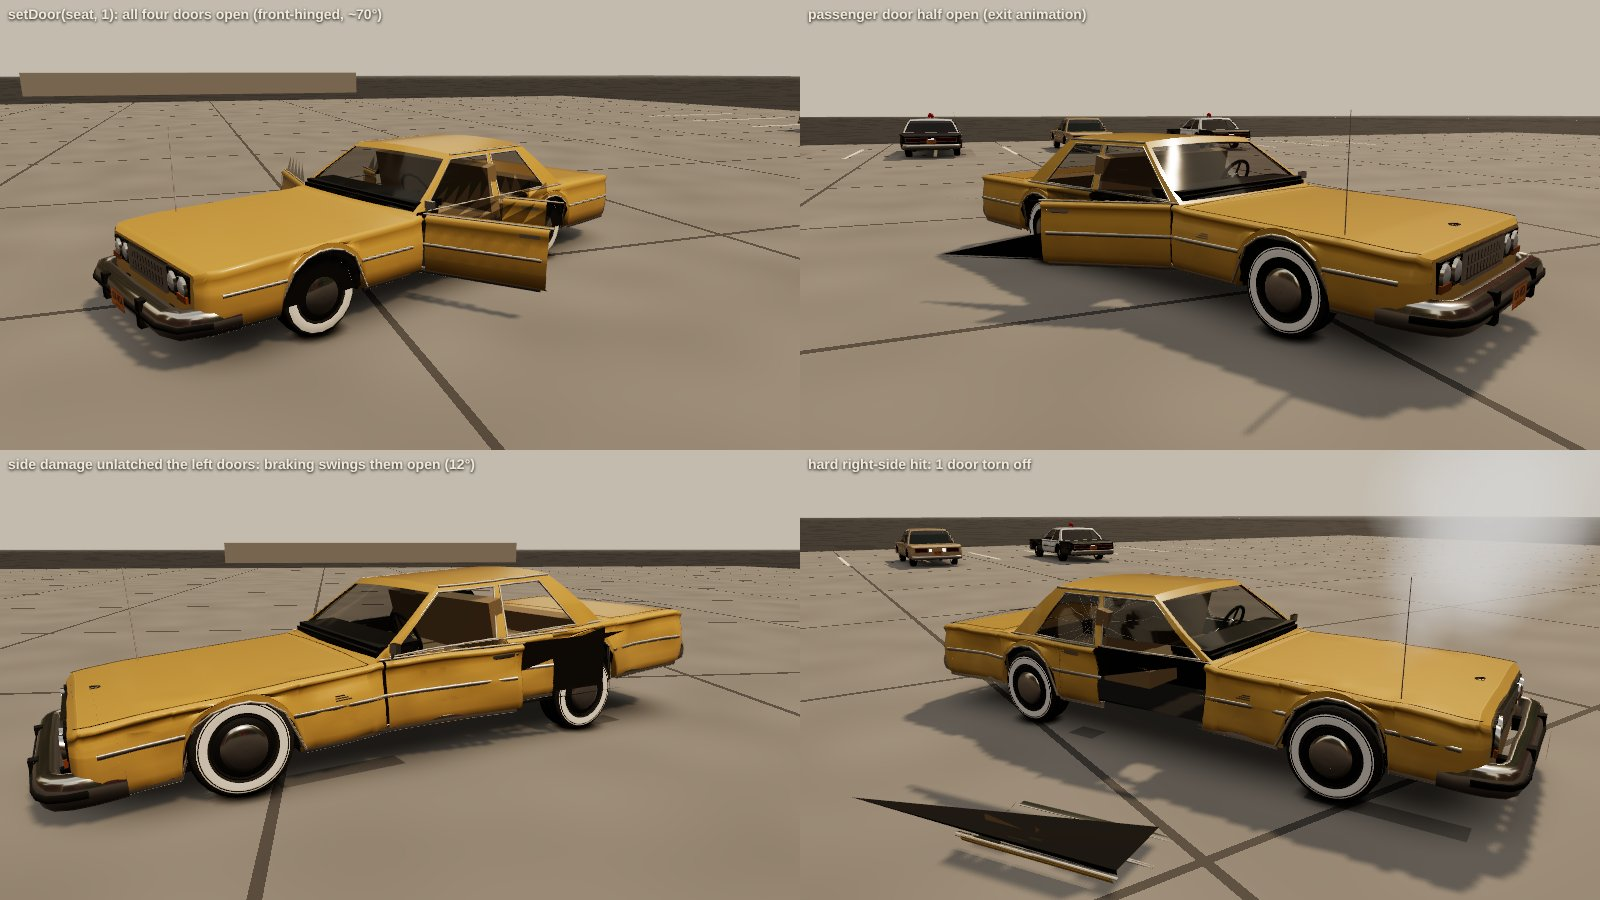
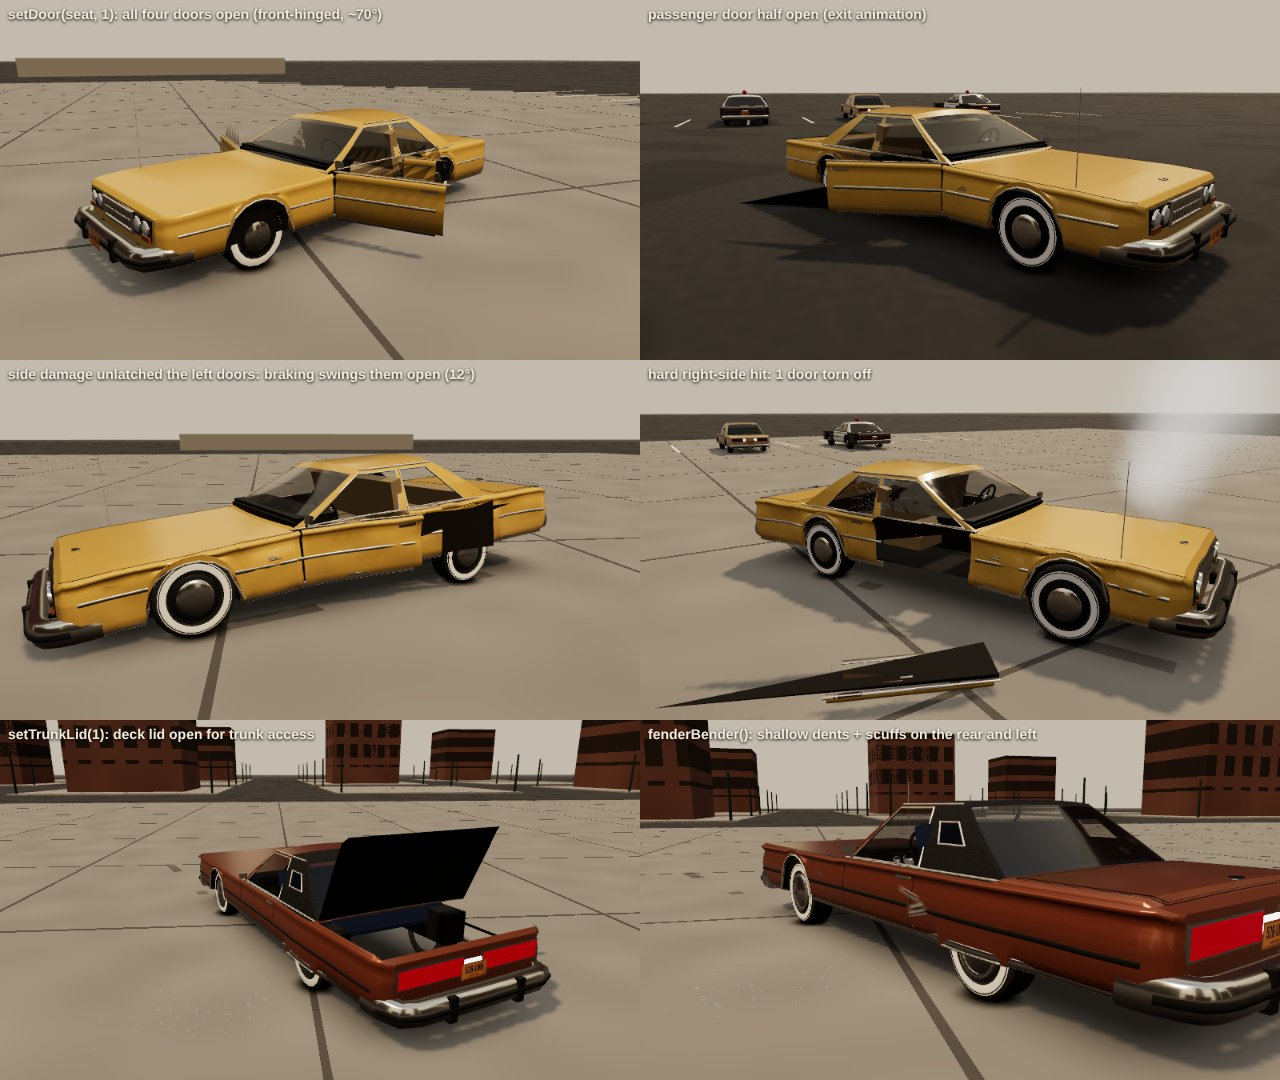
Vehicles: trunk lid (cut from the body, opens for trunk access, springs and tears off on rear damage); fenderBender() dents + scuff decals; clean seam stations (doors too)
Claude-Session: https://claude.ai/code/session_01H4ZSJ51q9zJhE3T3n4Hw3M

diff --git a/src/vehicles/Vehicle.ts b/src/vehicles/Vehicle.ts
@@ -72,6 +72,24 @@ const OWNER = new Map<number, Vehicle>();
 export function vehicleOfCollider(c: RAPIER.Collider | null | undefined): Vehicle | null { return c ? OWNER.get(c.handle) ?? null : null; }
 
 const MAX_HOLES = 48;
+const MAX_SCUFFS = 24;
+let scuffMat: THREE.MeshStandardNodeMaterial | null = null;
+/** Scuffs: grey-white scratch streaks and a dark rubber smear, drawn once on a canvas (shared). */
+function scuffMaterial() {
+  if (scuffMat) return scuffMat;
+  const c = document.createElement('canvas'); c.width = 256; c.height = 96;
+  const g = c.getContext('2d')!;
+  g.clearRect(0, 0, 256, 96);
+  for (let i = 0; i < 26; i++) {
+    const y = 20 + Math.random() * 56, x0 = Math.random() * 60, x1 = 180 + Math.random() * 76;
+    g.strokeStyle = i % 5 === 0 ? 'rgba(25,22,20,0.55)' : `rgba(210,206,198,${0.25 + Math.random() * 0.45})`;
+    g.lineWidth = i % 5 === 0 ? 5 + Math.random() * 6 : 0.8 + Math.random() * 1.8;
+    g.beginPath(); g.moveTo(x0, y); g.lineTo(x1, y + (Math.random() - 0.5) * 10); g.stroke();
+  }
+  const t = new THREE.CanvasTexture(c); t.colorSpace = THREE.SRGBColorSpace;
+  scuffMat = new THREE.MeshStandardNodeMaterial({ map: t, transparent: true, depthWrite: false, roughness: 0.8, polygonOffset: true, polygonOffsetFactor: -3, polygonOffsetUnits: -3 });
+  return scuffMat;
+}
 const smoothstep01 = (t: number) => { const x = Math.min(1, Math.max(0, t)); return x * x * (3 - 2 * x); };
 
 /** How many cars besides the player get the hero mesh, per quality (phones: the player only). */
@@ -217,6 +235,21 @@ export class Vehicle implements Lightable {
       holder.add(mesh); lod0.add(holder);
       this.parts[name] = { mesh, holder, body: null, sag: 0 };
     }
+    if (g0.trunkLid) {
+      const tl = g0.trunkLid;
+      const pivot = new THREE.Group();
+      pivot.position.set(...tl.hinge);
+      const mesh = new THREE.Mesh(tl.geo, this.mats.array);
+      mesh.position.set(-tl.hinge[0], -tl.hinge[1], -tl.hinge[2]);
+      mesh.castShadow = true; mesh.updateMorphTargets();
+      pivot.add(mesh); lod0.add(pivot);
+      this.parts.trunk = { mesh, holder: pivot, body: null, sag: 0 };
+      this.lid = { pivot, angle: 0, vel: 0, target: 0 };
+    }
+    // scuff marks (fender-benders): instanced canvas streaks in body space
+    this.scuffs = new THREE.InstancedMesh(new THREE.PlaneGeometry(0.42, 0.14), scuffMaterial(), MAX_SCUFFS);
+    this.scuffs.count = 0; this.scuffs.frustumCulled = false;
+    lod0.add(this.scuffs);
     if (g0.steering) {
       const st = g0.steering;
       this.steerPivot = new THREE.Group();
@@ -742,7 +775,7 @@ export class Vehicle implements Lightable {
     ZONES.forEach((z, i) => { infl[i] = this.zones[z]; });
     const hood = this.hoodPivot?.children[0] as THREE.Mesh | undefined;
     if (hood?.morphTargetInfluences) ZONES.forEach((z, i) => { hood.morphTargetInfluences![i] = this.zones[z]; });
-    for (const name of ['bumperF', 'bumperR', ...this.doors.map((d) => d.name)]) { const m = this.parts[name]?.mesh; if (m?.morphTargetInfluences) ZONES.forEach((z, i) => { m.morphTargetInfluences![i] = this.zones[z]; }); }
+    for (const name of ['bumperF', 'bumperR', 'trunk', ...this.doors.map((d) => d.name)]) { const m = this.parts[name]?.mesh; if (m?.morphTargetInfluences) ZONES.forEach((z, i) => { m.morphTargetInfluences![i] = this.zones[z]; }); }
     this.physics.wheels.forEach((w, i) => { w.flat = this.components.tyresFlat[i]; });
     const prev = this.stage;
     if (this.stage !== 'destroyed') {
@@ -1044,6 +1077,7 @@ export class Vehicle implements Lightable {
     for (const name of ['bumperF', 'bumperR'] as const) { const p = this.parts[name], ng = g[name]; if (p && ng) { p.mesh.geometry = ng; p.mesh.updateMorphTargets(); } }
     this.doors.forEach((d, i) => { const p = this.parts[d.name], ng = g.doors[i]?.geo; if (p && ng) { p.mesh.geometry = ng; p.mesh.updateMorphTargets(); } });
     if (this.steerMesh && g.steering) this.steerMesh.geometry = g.steering.geo;
+    { const p = this.parts.trunk; if (p && g.trunkLid) { p.mesh.geometry = g.trunkLid.geo; p.mesh.updateMorphTargets(); } }
     this.wheelObjs.forEach((o, i) => {
       const w = this.asset.lod0.wheels[i];
       const lvl = o.lod.levels[0].object;
@@ -1062,6 +1096,9 @@ export class Vehicle implements Lightable {
   /** Doors (LOD0 passenger cars): open amount 0..1 (1 = ~70°), animated toward `target`. */
   private doors: { name: string; side: 1 | -1; z0: number; z1: number; pivot: THREE.Group; angle: number; vel: number; target: number }[] = [];
   private prevVel = new THREE.Vector3();
+  private lid: { pivot: THREE.Group; angle: number; vel: number; target: number } | null = null;
+  private scuffs!: THREE.InstancedMesh;
+  private scuffN = 0;
   private steerPivot: THREE.Group | null = null;
   private steerMesh: THREE.Mesh | null = null;
   private steerAxis = new THREE.Vector3(0, 0, 1);
@@ -1072,7 +1109,7 @@ export class Vehicle implements Lightable {
    * Knock a part off: it becomes a physics body (debris) that keeps the dents and paint it had.
    * `push` (world, m/s) adds to the car's velocity. Returns false if already off or not present.
    */
-  detachPart(name: 'hood' | 'bumperF' | 'bumperR' | `door${number}`, push?: { x: number; y: number; z: number }, source: string | null = null): boolean {
+  detachPart(name: 'hood' | 'trunk' | 'bumperF' | 'bumperR' | `door${number}`, push?: { x: number; y: number; z: number }, source: string | null = null): boolean {
     const part = this.parts[name];
     const list = (this.components.detached ??= []);
     if (!part || list.includes(name)) return false;
@@ -1129,6 +1166,45 @@ export class Vehicle implements Lightable {
   }
   /** Current opening of a seat's door (0..1); null when there is none. */
   doorOpen(seat: SeatId): number | null { const d = this.doorFor(seat); return d ? d.angle : null; }
+  /** Deck lid: open toward `open` (0..1, ~65°) for trunk access. False on cars without one (wagons, trucks). */
+  setTrunkLid(open: number): boolean {
+    if (!this.lid || this.components.detached?.includes('trunk')) return false;
+    this.lid.target = Math.max(0, Math.min(1, open));
+    return true;
+  }
+  trunkLidOpen(): number | null { return this.lid && !this.components.detached?.includes('trunk') ? this.lid.angle : null; }
+  /**
+   * Low-speed knock (sim fenderBender): a shallow dent and scuff marks on the struck panel.
+   * `where` = the zone that took it, or a world point; `other` = the other car's id (for events).
+   */
+  fenderBender(where: Zone | { x: number; y: number; z: number }, other: string | null = null) {
+    const g = this.asset.lod0;
+    this.object.updateMatrixWorld();
+    let lp: THREE.Vector3;
+    if (typeof where === 'string') {
+      const r = () => (Math.random() - 0.5);
+      const zc = (g.minZ + g.maxZ) / 2;
+      lp = where === 'front' ? new THREE.Vector3(r() * g.halfW, 0.45, g.minZ + 0.12)
+        : where === 'rear' ? new THREE.Vector3(r() * g.halfW, 0.5, g.maxZ - 0.12)
+        : new THREE.Vector3((where === 'right' ? 1 : -1) * (g.halfW - 0.03), 0.6, zc + r() * (g.maxZ - g.minZ) * 0.6);
+    } else lp = this.object.worldToLocal(new THREE.Vector3(where.x, where.y, where.z));
+    const zone = typeof where === 'string' ? where : this.zoneOf(where as THREE.Vector3);
+    this.dent(this.object.localToWorld(lp.clone()), 0.012, 0.3);
+    // scuffs: two or three streaks across the panel, facing out of it
+    const n = new THREE.Vector3(zone === 'front' ? 0 : zone === 'rear' ? 0 : zone === 'right' ? 1 : -1, 0, zone === 'front' ? -1 : zone === 'rear' ? 1 : 0);
+    const q = new THREE.Quaternion().setFromUnitVectors(new THREE.Vector3(0, 0, 1), n);
+    for (let k = 0; k < 3; k++) {
+      const i = this.scuffN++ % MAX_SCUFFS;
+      const p = lp.clone().add(new THREE.Vector3((Math.random() - 0.5) * 0.25, (Math.random() - 0.5) * 0.12, (Math.random() - 0.5) * 0.25)).addScaledVector(n, 0.012);
+      const rq = q.clone().multiply(new THREE.Quaternion().setFromAxisAngle(new THREE.Vector3(0, 0, 1), (Math.random() - 0.5) * 0.5));
+      this.scuffs.setMatrixAt(i, new THREE.Matrix4().compose(p, rq, new THREE.Vector3(0.7 + Math.random() * 0.6, 0.7 + Math.random() * 0.5, 1)));
+    }
+    this.scuffs.count = Math.min(MAX_SCUFFS, this.scuffN);
+    this.scuffs.instanceMatrix.needsUpdate = true;
+    this.zones[zone] = Math.min(1, this.zones[zone] + 0.02);
+    this.refreshDamage(true);
+    this.emit('component', { vehicleId: this.id, kind: 'part', detail: `scuff:${zone}${other ? ':' + other : ''}`, source: other } satisfies ComponentEvent);
+  }
   /** Every door shut (e.g. after the engine's enter animation). */
   closeAllDoors() { for (const d of this.doors) d.target = 0; }
   private updateDoors(dt: number) {
@@ -1155,6 +1231,16 @@ export class Vehicle implements Lightable {
         d.vel = 0;
       }
       d.pivot.rotation.y = d.side * d.angle * 1.22;
+    }
+    const lid = this.lid;
+    if (lid && !this.components.detached?.includes('trunk')) {
+      if (this.zones.rear > 0.6) {
+        // latch sprung: the lid bounces on its hinges with the car's pitch and bumps
+        const push = 0.35 - Math.max(0, -acc.z) * 0.05 + acc.y * 0.03;
+        lid.vel += (push - lid.angle) * dt * 18 - lid.vel * dt * 3;
+        lid.angle = Math.max(0, Math.min(1, lid.angle + lid.vel * dt));
+      } else lid.angle += (lid.target - lid.angle) * Math.min(1, dt * 4);
+      lid.pivot.rotation.x = -lid.angle * 1.13;
     }
   }
 
@@ -1190,6 +1276,7 @@ export class Vehicle implements Lightable {
       if (this.zones[zone] > 0.82 || sev > 0.55) this.detachPart(name, { x: fwd.x * 1.5, y: 0.5, z: fwd.z * 1.5 }, source);
     }
     if (zone === 'front' && (this.zones.front > 0.9 || sev > 0.7)) this.detachPart('hood', { x: fwd.x * 0.5, y: 3, z: fwd.z * 0.5 }, source);
+    if (zone === 'rear' && (this.zones.rear > 0.92 || sev > 0.75)) this.detachPart('trunk', { x: fwd.x * 0.5, y: 2.5, z: fwd.z * 0.5 }, source);
     if ((zone === 'left' || zone === 'right') && (this.zones[zone] > 0.88 || sev > 0.6)) {
       const side = zone === 'right' ? 1 : -1;
       const out = _v4.set(side, 0.2, 0).applyQuaternion(this.object.quaternion);
@@ -1204,6 +1291,8 @@ export class Vehicle implements Lightable {
     for (const p of Object.values(this.parts)) if (p) { p.mesh.visible = true; p.sag = 0; if (p.holder !== this.hoodPivot) { p.holder.rotation.set(0, 0, 0); p.holder.position.set(0, 0, 0); } }
     if (this.components.detached) this.components.detached.length = 0;
     for (const d of this.doors) { d.angle = 0; d.vel = 0; d.target = 0; d.pivot.rotation.y = 0; }
+    if (this.lid) { this.lid.angle = 0; this.lid.vel = 0; this.lid.target = 0; this.lid.pivot.rotation.x = 0; }
+    this.scuffN = 0; this.scuffs.count = 0;
   }
 
   private updateLightsAndFx(dt: number) {

diff --git a/src/vehicles/gen/body.ts b/src/vehicles/gen/body.ts
@@ -1,5 +1,5 @@
 import * as THREE from 'three/webgpu';
-import { GeoBuilder, SLOTS, extractRegions, type Slot, type V3, clamp, lerp, pw, smooth } from './builder';
+import { GeoBuilder, SLOTS, extractRegions, withInnerSkin, type Slot, type V3, clamp, lerp, pw, smooth } from './builder';
 import { type ModelSpec, type GlassKind, type CargoSpec, sMid } from './spec';
 
 /** Where decals (canvas textures) go; created by decals.ts. */
@@ -13,6 +13,8 @@ export interface BoxCollider { cx: number; cy: number; cz: number; hx: number; h
 export interface GeneratedModel {
   body: THREE.BufferGeometry;
   hood: THREE.BufferGeometry | null;
+  /** LOD0 notchback cars: the deck lid (hinged at its front edge, opens up). */
+  trunkLid: { geo: THREE.BufferGeometry; hinge: V3; z1: number } | null;
   /** LOD0 passenger cars: the steering wheel rim and spokes (turns about `axis` through `centre`). */
   steering: { geo: THREE.BufferGeometry; centre: V3; axis: V3 } | null;
   /** LOD0 passenger cars: doors cut from the body (front-hinged; swing open, hang, detach). */
@@ -172,7 +174,8 @@ export function generate(m: ModelSpec, o: GenOptions): GeneratedModel {
 
   // ---------------------------------------------------------------- stations
   const st = new Set<number>();
-  if (lod === 0) for (const sd of doorSeams) { st.add(sd); st.add(sd - 0.004); st.add(sd + 0.004); } // doors cut cleanly along their seams
+  if (lod === 0) for (const sd of doorSeams) { st.add(sd); st.add(sd - 0.006); st.add(sd + 0.006); } // doors cut cleanly along their seams
+  if (lod === 0 && PASSENGER.has(m.cls)) for (const sd of [m.gh.sC0 + 0.12, L - 0.1]) { st.add(sd); st.add(sd - 0.006); st.add(sd + 0.006); } // deck lid seams
   const n = Math.max(lod === 0 ? 14 : 7, Math.round(L / (lod === 0 ? 0.42 : 0.85)));
   for (let i = 0; i <= n; i++) st.add(L * i / n);
   for (const a of axles) {
@@ -591,6 +594,20 @@ export function generate(m: ModelSpec, o: GenOptions): GeneratedModel {
       doors.push({ side: r.side, z0: Math.min(r.z0, r.z1), z1: Math.max(r.z0, r.z1), hinge: [r.side * (sideX(r.sFront, (m.sillY + m.beltY) / 2) + 0.01), (m.sillY + m.beltY) / 2, hingeZ], geo });
     });
   }
+  // ---------------------------------------------------------------- deck (trunk) lid: its own part on notchbacks
+  let trunkLid: GeneratedModel['trunkLid'] = null;
+  if (lod === 0 && PASSENGER.has(m.cls) && m.cls !== 'wagon' && !m.cargo) {
+    const deck0 = m.gh.sC0 + 0.12, deck1 = L - 0.1;
+    if (topY((deck0 + deck1) / 2) < m.gh.roofY - 0.3 && deck1 - deck0 > 0.6) {
+      const zA = Z(deck0), zB = Z(deck1);
+      const tl = extractRegions(body, [(cx, cy, cz) => {
+        if (cz < zA + 0.002 || cz > zB - 0.002) return false;
+        const sC = cz - Z(0);
+        return Math.abs(cx) < halfW(sC) * 0.9 && cy > topY(sC) - 0.06;
+      }]);
+      if (tl.parts[0].index && tl.parts[0].index.count >= 3) { body = tl.rest; trunkLid = { geo: withInnerSkin(tl.parts[0], 'under', 0.012, [0, 1, 0]), hinge: [0, topY(deck0), zA], z1: zB }; }
+    }
+  }
   // ---------------------------------------------------------------- steering wheel: its own part so it can turn
   let steering: GeneratedModel['steering'] = null;
   if (lod === 0 && PASSENGER.has(m.cls)) {
@@ -610,11 +627,11 @@ export function generate(m: ModelSpec, o: GenOptions): GeneratedModel {
   let maxZ = Z(L) + rDepth;
   for (const c of m.cargo ?? []) maxZ = Math.max(maxZ, Z(c.s1));
   return {
-    body, hood, doors, steering, bumperF: lod === 0 && bumpFB.pos.length ? bumpFB.build() : null, bumperR: lod === 0 && bumpRB.pos.length ? bumpRB.build() : null, hoodPivot: m.hood ? [0, topY(m.hood[1]), Z(m.hood[1])] : [0, 0, 0],
+    body, hood, doors, steering, trunkLid, bumperF: lod === 0 && bumpFB.pos.length ? bumpFB.build() : null, bumperR: lod === 0 && bumpRB.pos.length ? bumpRB.build() : null, hoodPivot: m.hood ? [0, topY(m.hood[1]), Z(m.hood[1])] : [0, 0, 0],
     wheelR, wheelL, wheels, beacon, decals, colliders,
     lamps: { head, tail }, plates: plateMounts(m, Z, lastCargo),
     minZ: Z(0) - fDepth, maxZ, halfW: m.W / 2, height: Math.max(roofTop, ...(m.cargo ?? []).map((c) => c.y1)),
-    tris: tris(body) + tris(hood) + doors.reduce((a, d) => a + tris(d.geo), 0) + (steering ? tris(steering.geo) : 0) + (tris(wheelR) * (wheels.length + (m.dualRear ? 2 : 0))) + tris(beacon),
+    tris: tris(body) + tris(hood) + doors.reduce((a, d) => a + tris(d.geo), 0) + (steering ? tris(steering.geo) : 0) + (trunkLid ? tris(trunkLid.geo) : 0) + (tris(wheelR) * (wheels.length + (m.dualRear ? 2 : 0))) + tris(beacon),
   };
 }
 

diff --git a/src/vehicles/gen/builder.ts b/src/vehicles/gen/builder.ts
@@ -327,3 +327,33 @@ export function extractRegions(g: THREE.BufferGeometry, tests: ((cx: number, cy:
   };
   return { rest: make(buckets[0]), parts: buckets.slice(1).map(make) };
 }
+
+/** Append the reverse side of every triangle in the given slot (an inner skin, e.g. a lid's underside). */
+export function withInnerSkin(g: THREE.BufferGeometry, slot: Slot, offset = 0.006, dir?: V3): THREE.BufferGeometry {
+  const pos = g.getAttribute('position'), nrm = g.getAttribute('normal'), idx = g.index!;
+  const n = pos.count;
+  const P = new Float32Array(n * 6), N = new Float32Array(n * 6);
+  for (let i = 0; i < n; i++) {
+    for (let c = 0; c < 3; c++) { P[i * 3 + c] = (pos.array as ArrayLike<number>)[i * 3 + c]; N[i * 3 + c] = (nrm.array as ArrayLike<number>)[i * 3 + c]; }
+    const nx = nrm.getX(i), ny = nrm.getY(i), nz = nrm.getZ(i);
+    // offset along a fixed direction when given: vertex normals tilt at creases and would push edges out
+    const ox = dir ? -dir[0] : nx, oy = dir ? -dir[1] : ny, oz = dir ? -dir[2] : nz;
+    P[(n + i) * 3] = pos.getX(i) - ox * offset; P[(n + i) * 3 + 1] = pos.getY(i) - oy * offset; P[(n + i) * 3 + 2] = pos.getZ(i) - oz * offset;
+    if (dir) { N[(n + i) * 3] = -nx; N[(n + i) * 3 + 1] = -ny; N[(n + i) * 3 + 2] = -nz; continue; }
+    P[(n + i) * 3] = pos.getX(i) - nx * offset; P[(n + i) * 3 + 1] = pos.getY(i) - ny * offset; P[(n + i) * 3 + 2] = pos.getZ(i) - nz * offset;
+    N[(n + i) * 3] = -nx; N[(n + i) * 3 + 1] = -ny; N[(n + i) * 3 + 2] = -nz;
+  }
+  const ix: number[] = [];
+  const out = new THREE.BufferGeometry();
+  for (const grp of g.groups) { const start = ix.length; for (let k = grp.start; k < grp.start + grp.count; k++) ix.push(idx.getX(k)); out.addGroup(start, ix.length - start, grp.materialIndex); }
+  const start = ix.length;
+  for (let k = 0; k < idx.count; k += 3) ix.push(n + idx.getX(k), n + idx.getX(k + 2), n + idx.getX(k + 1));
+  out.addGroup(start, ix.length - start, SLOTS.indexOf(slot));
+  out.setAttribute('position', new THREE.BufferAttribute(P, 3));
+  out.setAttribute('normal', new THREE.BufferAttribute(N, 3));
+  const uv = g.getAttribute('uv');
+  if (uv) { const U = new Float32Array(n * 4); U.set(uv.array as ArrayLike<number>, 0); U.set(uv.array as ArrayLike<number>, n * 2); out.setAttribute('uv', new THREE.BufferAttribute(U, 2)); }
+  out.setIndex(ix);
+  out.computeBoundingBox(); out.computeBoundingSphere();
+  return out;
+}

diff --git a/tools/shots/vehicles.ts b/tools/shots/vehicles.ts
@@ -467,8 +467,13 @@ async function main() {
       await camRel(page, [-4.6, 1.8, -2.5], 42, 0.35); ds.push(await snap(page)); dl.push(`side damage unlatched the left doors: braking swings them open (${(r.ajar * 70).toFixed(0)}°)`);
       const r2 = await page.evaluate(() => { const V = window.__VEH; V.setAuto({ throttle: 0, brake: 1, steer: 0, handbrake: true }); V.simulate(1.5); V.player.applyDamage('right', 0.75); V.simulate(2.5); return V.player.detachedParts; });
       await camRel(page, [4.6, 2.0, -3.0], 42, 0.35); ds.push(await snap(page)); dl.push(`hard right-side hit: ${r2.filter((x: string) => x.startsWith('door')).length} door torn off`);
+      // trunk lid for trunk access, and fender-bender scuffs
+      await page.evaluate(() => { const V = window.__VEH; V.setModel('tiverton', 2, { x: 0, z: 30, yaw: 0.4 }); V.setAuto({ throttle: 0, brake: 1, steer: 0, handbrake: true }); V.simulate(0.5); V.player.setTrunkLid(1); V.simulate(1.2); });
+      await camRel(page, [-3.0, 2.3, 5.6], 42, 0.4); ds.push(await snap(page)); dl.push('setTrunkLid(1): deck lid open for trunk access');
+      await page.evaluate(() => { const V = window.__VEH; V.player.setTrunkLid(0); V.simulate(2.5); V.player.fenderBender('rear', 'veh-b'); V.player.fenderBender('left', 'veh-c'); V.simulate(0.5); });
+      await camRel(page, [-3.2, 1.3, 4.2], 36, 0.3); ds.push(await snap(page)); dl.push('fenderBender(): shallow dents + scuffs on the rear and left');
       report.doors = { ajarAfterBraking: r.ajar, detached: r2 };
-      await sheet(page, ds, 2, 800, 450, 'doors.jpg', dl);
+      await sheet(page, ds, 2, 640, 360, 'doors.jpg', dl);
       console.log('doors', report.doors);
     }
 

diff --git a/src/vehicles/assets.ts b/src/vehicles/assets.ts
@@ -50,7 +50,7 @@ export function getAsset(spec: ModelSpec, v: Pick<Variant, 'vinyl' | 'whitewall'
   const lod0 = generate(spec, { lod: 0, ...v });
   addDamageMorphs(lod0.body, lod0, strHash(spec.id) % 97);
   if (lod0.hood) addDamageMorphs(lod0.hood, lod0, strHash(spec.id) % 97);
-  for (const bg of [lod0.bumperF, lod0.bumperR, ...lod0.doors.map((d) => d.geo)]) if (bg) addDamageMorphs(bg, lod0, strHash(spec.id) % 97);
+  for (const bg of [lod0.bumperF, lod0.bumperR, ...lod0.doors.map((d) => d.geo), lod0.trunkLid?.geo ?? null]) if (bg) addDamageMorphs(bg, lod0, strHash(spec.id) % 97);
   const lod1 = generate(spec, { lod: 1, ...v }); // keeps the whitewalls: LOD1 must read like LOD0 across the crossfade
   a = { spec, lod0, lod1, lod2: impostor(spec, lod0) };
   cache.set(key, a);
@@ -116,7 +116,7 @@ export function getHeroModel(spec: ModelSpec, v: TrimKey): GeneratedModel {
   g = generate(spec, { lod: 0, hero: true, ...v });
   addDamageMorphs(g.body, g, strHash(spec.id) % 97);
   if (g.hood) addDamageMorphs(g.hood, g, strHash(spec.id) % 97);
-  for (const bg of [g.bumperF, g.bumperR, ...g.doors.map((d) => d.geo)]) if (bg) addDamageMorphs(bg, g, strHash(spec.id) % 97);
+  for (const bg of [g.bumperF, g.bumperR, ...g.doors.map((d) => d.geo), g.trunkLid?.geo ?? null]) if (bg) addDamageMorphs(bg, g, strHash(spec.id) % 97);
   heroCache.set(key, g);
   return g;
 }

diff --git a/src/vehicles/geoTransfer.ts b/src/vehicles/geoTransfer.ts
@@ -45,6 +45,7 @@ export function packModel(m: GeneratedModel): { packed: PackedModel; transfer: A
   for (const k of GEO_KEYS) out[k] = m[k] ? packGeometry(m[k]!, transfer) : null;
   out.doors = m.doors.map((d) => ({ ...d, geo: packGeometry(d.geo, transfer) }));
   out.steering = m.steering ? { ...m.steering, geo: packGeometry(m.steering.geo, transfer) } : null;
+  out.trunkLid = m.trunkLid ? { ...m.trunkLid, geo: packGeometry(m.trunkLid.geo, transfer) } : null;
   return { packed: out as PackedModel, transfer };
 }
 
@@ -54,5 +55,7 @@ export function unpackModel(p: PackedModel): GeneratedModel {
   out.doors = (p.doors as unknown as { geo: PackedGeometry }[]).map((d) => ({ ...d, geo: unpackGeometry(d.geo) }));
   const st = p.steering as unknown as { geo: PackedGeometry } | null;
   out.steering = st ? { ...st, geo: unpackGeometry(st.geo) } : null;
+  const tl = p.trunkLid as unknown as { geo: PackedGeometry } | null;
+  out.trunkLid = tl ? { ...tl, geo: unpackGeometry(tl.geo) } : null;
   return out as unknown as GeneratedModel;
 }

diff --git a/src/vehicles/thumbnail.ts b/src/vehicles/thumbnail.ts
@@ -43,7 +43,7 @@ async function render(renderer: THREE.WebGPURenderer, modelId: string, paint: nu
   const car = new THREE.Group();
   car.add(new THREE.Mesh(g.body, mats.array));
   if (g.hood) car.add(new THREE.Mesh(g.hood, mats.array));
-  for (const bg of [g.bumperF, g.bumperR, ...g.doors.map((d) => d.geo), g.steering?.geo ?? null]) if (bg) car.add(new THREE.Mesh(bg, mats.array));
+  for (const bg of [g.bumperF, g.bumperR, ...g.doors.map((d) => d.geo), g.steering?.geo ?? null, g.trunkLid?.geo ?? null]) if (bg) car.add(new THREE.Mesh(bg, mats.array));
   if (g.beacon) car.add(new THREE.Mesh(g.beacon, mats.array));
   for (const wm of g.wheels) {
     const m = new THREE.Mesh(wm.side > 0 ? g.wheelR : g.wheelL, mats.wheelArray);

diff --git a/src/vehicles/heroWorker.ts b/src/vehicles/heroWorker.ts
@@ -18,7 +18,7 @@ self.onmessage = (e: MessageEvent<{ key: string; specId: string; v: { vinyl: 'no
     const g = generate(spec, { lod: 0, hero: true, ...v });
     addDamageMorphs(g.body, g, strHash(spec.id) % 97);
     if (g.hood) addDamageMorphs(g.hood, g, strHash(spec.id) % 97);
-  for (const bg of [g.bumperF, g.bumperR, ...g.doors.map((d) => d.geo)]) if (bg) addDamageMorphs(bg, g, strHash(spec.id) % 97);
+  for (const bg of [g.bumperF, g.bumperR, ...g.doors.map((d) => d.geo), g.trunkLid?.geo ?? null]) if (bg) addDamageMorphs(bg, g, strHash(spec.id) % 97);
     const { packed, transfer } = packModel(g);
     self.postMessage({ key, packed, ms: performance.now() - t0 }, transfer as Transferable[]);
   } catch (err) {

diff --git a/docs/VEHICLES_PROGRESS.md b/docs/VEHICLES_PROGRESS.md
@@ -307,6 +307,21 @@ Brief: `docs/briefs/VEHICLES_BRIEF.md`. Branch: `claude/youthful-newton-py223e`,
     modelled separately yet).
   - At full lock the rim turns 8.4 rad (about 1.3 turns).
 
+- **Trunk (deck) lid on notchback cars.** It is cut out of the body like the doors. Its seams
+  are now real stations: the earlier ±4 mm offsets were dropped by the station filter, which cut
+  through whole cells as a sawtooth; now ±6 mm, for the doors too. It has a dark inner skin and is
+  hinged at its front edge.
+  - `setTrunkLid(0..1)` (about 65°) and `trunkLidOpen()`, for trunk access.
+  - Rear damage over 0.6 springs the latch and the lid bounces. It tears off at rear damage 0.92
+    or a hit of severity 0.75 (`trunk`).
+  - Wagons and trucks have no lid.
+- **Fender-benders (sim `fenderBender {a, b}`):** `vehicle.fenderBender(zone | worldPoint,
+  otherId?)` gives a shallow local dent (12 mm) plus three canvas scuff streaks (grey scratches,
+  a dark rubber smear) on the struck panel.
+  - At most 24 per car; `repair()` clears them.
+  - Emits `component {kind: 'part', detail: 'scuff:<zone>:<other>'}`.
+- Shot: `doors.jpg` (now six panels: trunk open, scuffs).
+
 ### vs GTA V / VI / RDR2 (vehicles)
 - **What the references do:**
   - GTA V player cars are high-poly hero meshes with full interiors and working gauges.
